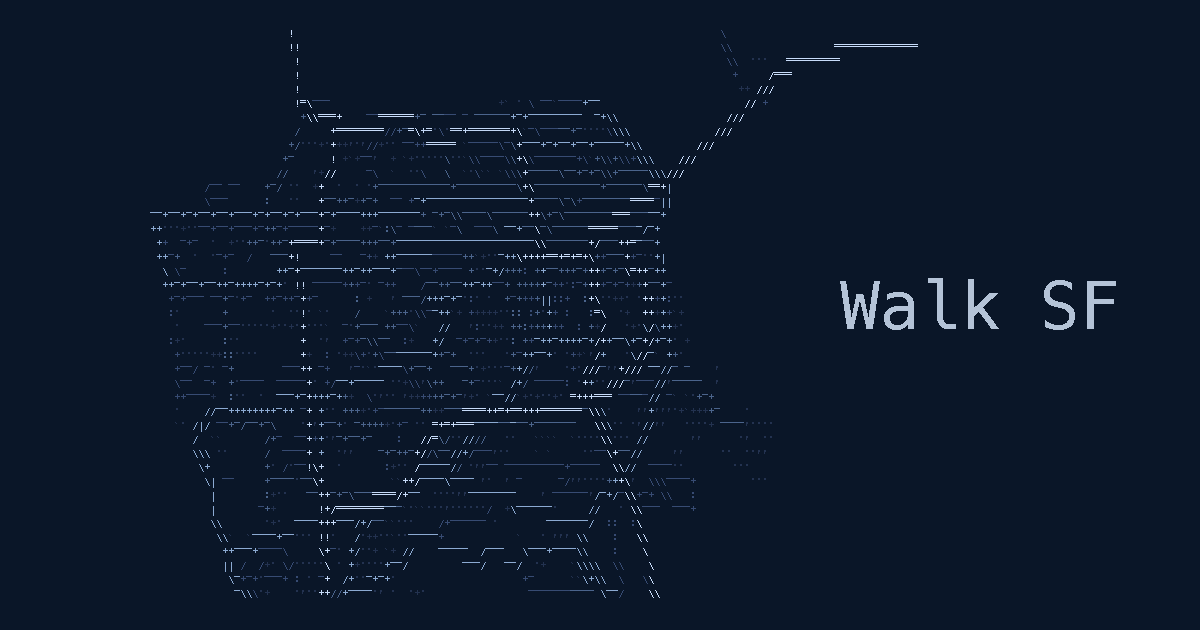
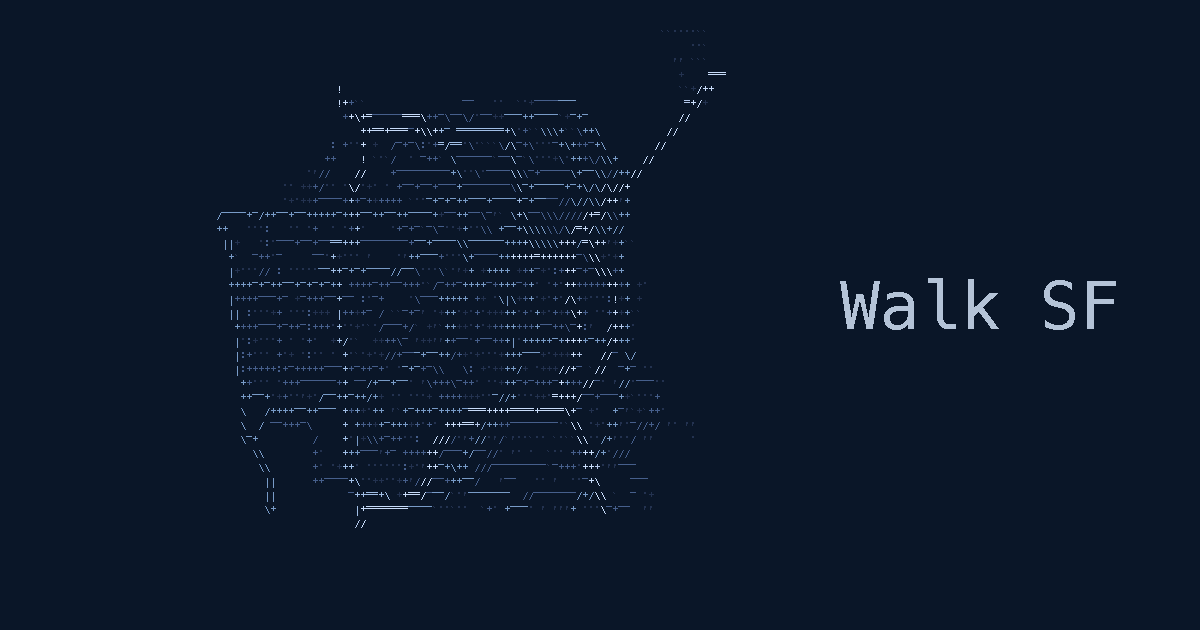
Fix OG gen script and image

diff --git a/gen_og_image.py b/gen_og_image.py
@@ -9,24 +9,23 @@ OG_W, OG_H = 1200, 630
 BG = (10, 22, 40)
 FONT_SIZE = 10
 
-SKIP = {
-    "service", "footway", "path", "cycleway", "steps",
-    "pedestrian", "track", "construction", "proposed",
+# Unbuilt or non-public centerlines. classcode 0 ("other": paper, private,
+# pedestrian) is omitted by not appearing in TIERS.
+SKIP_LAYERS = {
+    "PAPER", "PAPER_FWYS", "PAPER_WATER", "PSEUDO",
+    "PRIVATE", "PRIVATE_PARKING",
 }
 
+# DataSF class codes: 1 freeway, 2 major, 3 arterial, 4 collector,
+# 5 residential, 6 ramp.
 TIERS = {
-    "motorway":     {"color": (200, 220, 250), "sample": 1.0, "weight": 5},
-    "motorway_link":{"color": (180, 200, 235), "sample": 1.0, "weight": 4},
-    "trunk":        {"color": (195, 215, 245), "sample": 1.0, "weight": 5},
-    "trunk_link":   {"color": (170, 195, 230), "sample": 1.0, "weight": 4},
-    "primary":      {"color": (140, 170, 210), "sample": 1.0, "weight": 3},
-    "secondary":    {"color": (75, 100, 140),  "sample": 0.6, "weight": 2},
-    "tertiary":     {"color": (55, 75, 115),   "sample": 0.4, "weight": 2},
-    "residential":  {"color": (35, 50, 80),    "sample": 0.12, "weight": 1},
-    "unclassified": {"color": (35, 50, 80),    "sample": 0.12, "weight": 1},
-    "living_street":{"color": (35, 50, 80),    "sample": 0.12, "weight": 1},
+    "1": {"color": (200, 220, 250), "sample": 1.0, "weight": 5},
+    "6": {"color": (180, 200, 235), "sample": 1.0, "weight": 4},
+    "2": {"color": (160, 190, 230), "sample": 1.0, "weight": 4},
+    "3": {"color": (120, 155, 200), "sample": 1.0, "weight": 3},
+    "4": {"color": (70, 95, 140),   "sample": 0.55, "weight": 2},
+    "5": {"color": (35, 50, 80),    "sample": 0.14, "weight": 1},
 }
-DEFAULT_TIER = {"color": (45, 60, 95), "sample": 0.3, "weight": 1}
 
 H_CHARS = {1: ".", 2: "-", 3: "-", 4: "=", 5: "="}
 V_CHARS = {1: ".", 2: ":", 3: "|", 4: "|", 5: "!"}
@@ -95,10 +94,12 @@ def main():
     min_lat, max_lat = 37.685, 37.825
     lon_span = max_lon - min_lon
     lat_span = max_lat - min_lat
+    # A degree of longitude is cos(lat) times a degree of latitude.
+    lon_scale = math.cos(math.radians((min_lat + max_lat) / 2))
 
     pixel_w = cols * char_w
     pixel_h = rows * char_h
-    aspect_geo = lon_span / lat_span
+    aspect_geo = (lon_span * lon_scale) / lat_span
     aspect_pixel = pixel_w / pixel_h
     if aspect_pixel > aspect_geo:
         eff_pixel_w = int(pixel_h * aspect_geo)
@@ -121,47 +122,50 @@ def main():
     grid_color = [[(0, 0, 0)] * cols for _ in range(rows)]
     grid_dir = [["h"] * cols for _ in range(rows)]
 
-    layers = [
-        ("residential", "unclassified", "living_street"),
-        ("tertiary",),
-        ("secondary",),
-        ("primary",),
-        ("trunk_link", "motorway_link"),
-        ("trunk", "motorway"),
-    ]
+    # Faint streets first so freeways and majors overwrite them.
+    draw_order = ["5", "4", "3", "2", "6", "1"]
 
-    feats_by_hw = {}
+    feats_by_class = {}
     for feat in data["features"]:
-        hw = feat.get("properties", {}).get("highway", "")
-        if hw in SKIP:
+        props = feat.get("properties") or {}
+        if props.get("active") is False:
             continue
-        feats_by_hw.setdefault(hw, []).append(feat)
+        if props.get("layer") in SKIP_LAYERS:
+            continue
+        cc = props.get("classcode")
+        if cc not in TIERS:
+            continue
+        geom = feat.get("geometry") or {}
+        if geom.get("type") != "LineString" or len(geom.get("coordinates") or []) < 2:
+            continue
+        feats_by_class.setdefault(cc, []).append(feat)
 
-    for group in layers:
-        for hw in group:
-            tier = TIERS.get(hw, DEFAULT_TIER)
-            for feat in feats_by_hw.get(hw, []):
-                name = feat.get("properties", {}).get("name", "")
-                fid = f"{hw}:{name}:{feat['geometry']['coordinates'][0]}"
-                if stable_hash(fid) > tier["sample"]:
-                    continue
-                coords = feat["geometry"]["coordinates"]
-                w = tier["weight"]
-                for i in range(len(coords) - 1):
-                    x0, y0 = project(coords[i][0], coords[i][1])
-                    x1, y1 = project(coords[i + 1][0], coords[i + 1][1])
-                    dx_geo = x1 - x0
-                    dy_geo = y1 - y0
-                    d = classify_angle(dx_geo, dy_geo)
-                    ix0, iy0 = int(round(x0)), int(round(y0))
-                    ix1, iy1 = int(round(x1)), int(round(y1))
-                    for cx, cy in bresenham(ix0, iy0, ix1, iy1):
-                        if 0 <= cx < cols and 0 <= cy < rows:
-                            grid_dirs[cy][cx].add(d)
-                            if w >= grid_weight[cy][cx]:
-                                grid_weight[cy][cx] = w
-                                grid_color[cy][cx] = tier["color"]
-                                grid_dir[cy][cx] = d
+    for cc in draw_order:
+        tier = TIERS[cc]
+        for feat in feats_by_class.get(cc, []):
+            props = feat.get("properties") or {}
+            name = props.get("streetname") or ""
+            cnn = props.get("cnn") or ""
+            fid = f"{cc}:{cnn}:{name}:{feat['geometry']['coordinates'][0]}"
+            if stable_hash(fid) > tier["sample"]:
+                continue
+            coords = feat["geometry"]["coordinates"]
+            w = tier["weight"]
+            for i in range(len(coords) - 1):
+                x0, y0 = project(coords[i][0], coords[i][1])
+                x1, y1 = project(coords[i + 1][0], coords[i + 1][1])
+                dx_geo = x1 - x0
+                dy_geo = y1 - y0
+                d = classify_angle(dx_geo, dy_geo)
+                ix0, iy0 = int(round(x0)), int(round(y0))
+                ix1, iy1 = int(round(x1)), int(round(y1))
+                for cx, cy in bresenham(ix0, iy0, ix1, iy1):
+                    if 0 <= cx < cols and 0 <= cy < rows:
+                        grid_dirs[cy][cx].add(d)
+                        if w >= grid_weight[cy][cx]:
+                            grid_weight[cy][cx] = w
+                            grid_color[cy][cx] = tier["color"]
+                            grid_dir[cy][cx] = d
 
     grid_char = [[" "] * cols for _ in range(rows)]
     for cy in range(rows):
